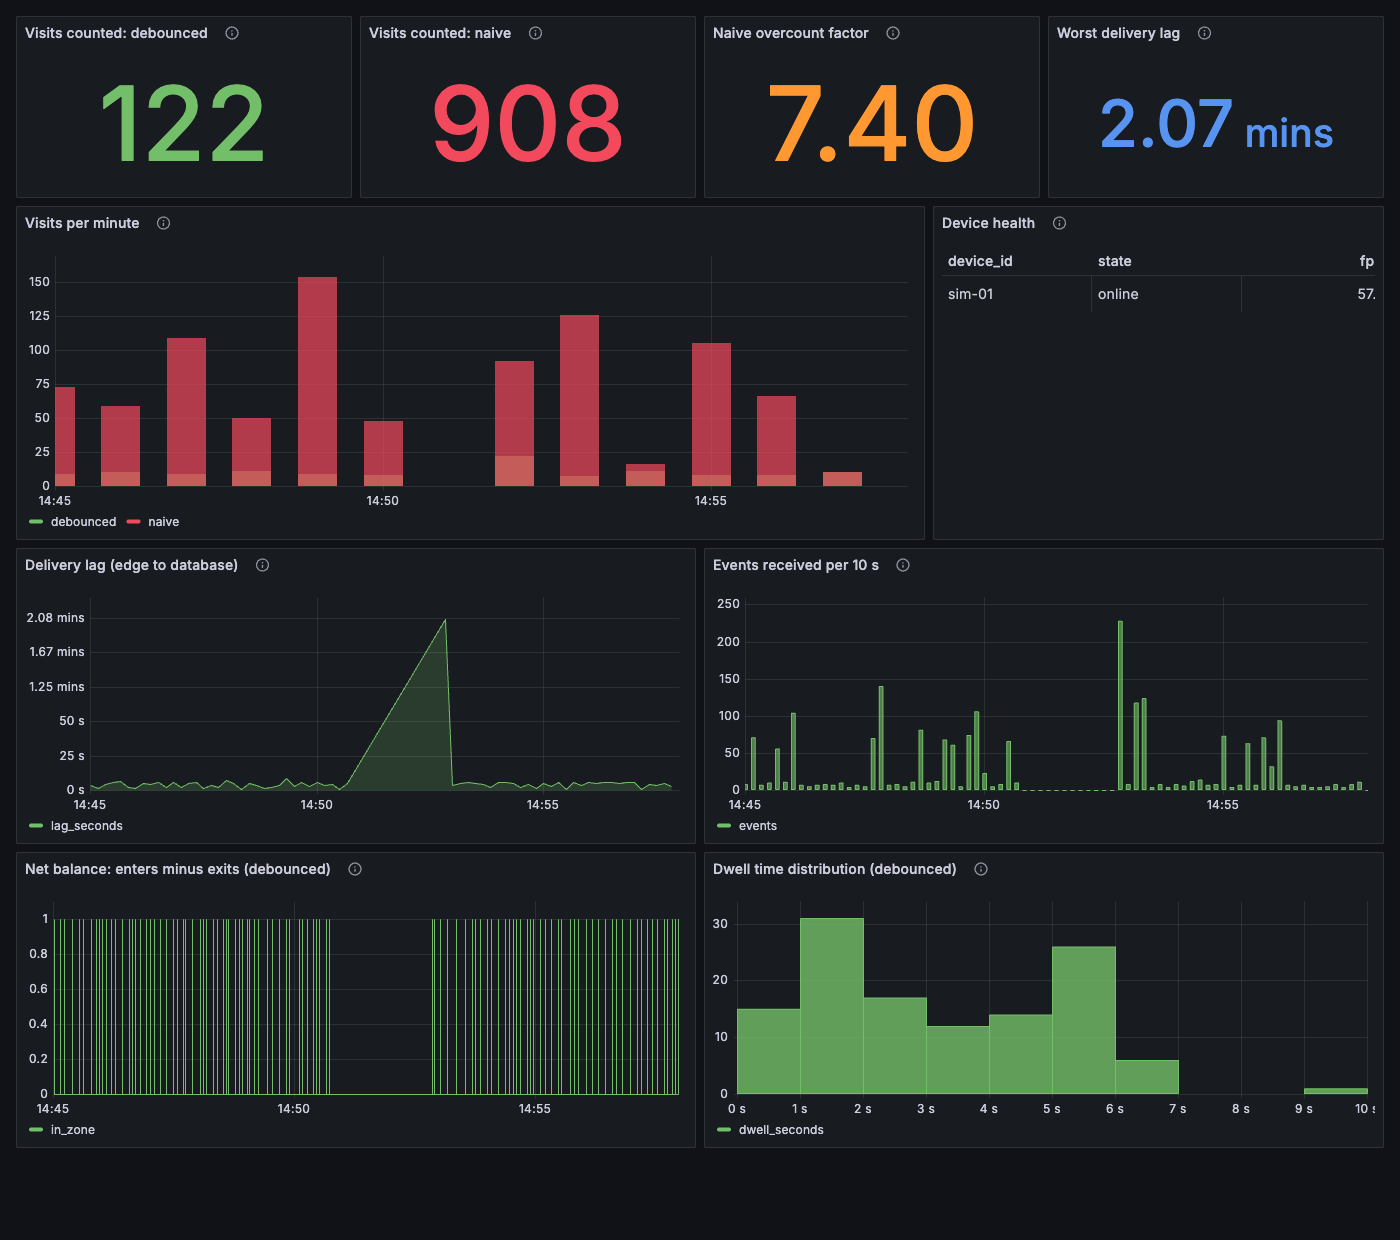
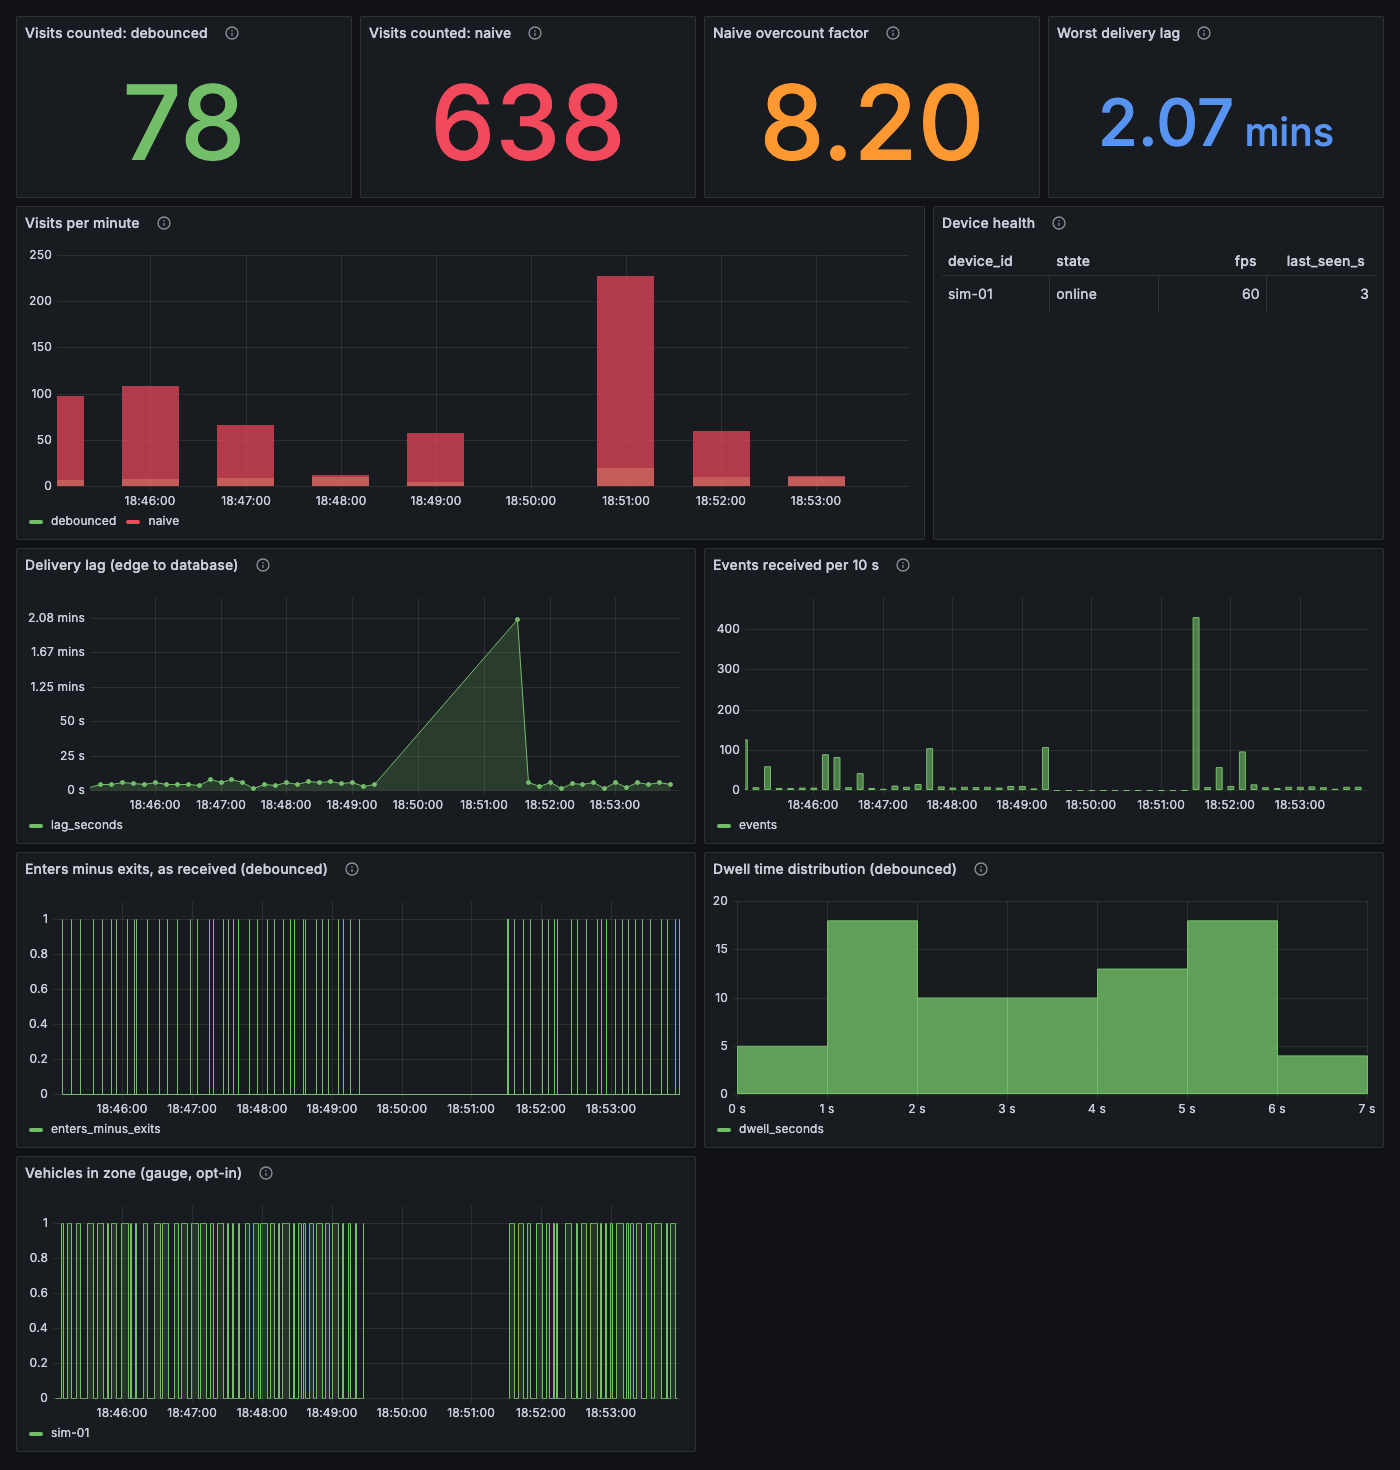
docs: recapture the Grafana screenshot with the gauge panel

diff --git a/README.md b/README.md
@@ -122,9 +122,12 @@ make broker-restart           # fresh lab, ~5 min: ingest away across a broker r
 # Grafana: events flatline, then a catch-up spike with high delivery lag
 ```
 
-<!-- Screenshot, not generated by make: `make up`, then chaos/scenarios.sh 64k, latency, outage 120 (reset between),
-     dashboard captured headless at 1400x1240 in kiosk mode over that window. Replace it by re-running the same sequence. -->
-![Grafana through a 2 minute outage: events flatline, then catch up with a delivery-lag spike](docs/screenshots/grafana-outage.png)
+<!-- Screenshot, not generated by make: a fresh lab with `OCCUPANCY_GAUGE_MS=500 make up` (the opt-in gauge on, so its
+     panel has data), then `make drill` (64 kbps, latency, 2 minute outage, drain); the dashboard captured with headless
+     Chrome at 1400x1470 in kiosk mode, about 12 s after load, with the time range in epoch ms from lab start to the
+     drill's end (/d/edge-cv-lab/edge-cv-lab?kiosk&from=<ms>&to=<ms>; Grafana ignores ISO dates there).
+     Replace it by re-running the same sequence. -->
+![Grafana through a 2 minute outage: events flatline, then catch up with a delivery-lag spike; the occupancy gauge has a gap where its QoS 0 samples were dropped](docs/screenshots/grafana-outage.png)
 
 ## Failure modes covered
 

diff --git a/HANDOVER.md b/HANDOVER.md
@@ -66,8 +66,7 @@ Not needed for the four case studies; kept in case a benchmark angle is wanted l
 ## Known rough edges
 - The edge and the sim publish each debounced enter together with its exit, so the event sum on the dashboard (now
   "Enters minus exits, as received") shows neither occupancy nor delivery: a visit lost whole leaves it flat.
-  Occupancy comes only from the opt-in gauge; `make delivery` checks delivery. `docs/screenshots/grafana-outage.png` predates the relabel and the gauge panel (old title, `in_zone` series);
-  recapture it with the steps in README's comment, and note the dashboard is now one row taller.
+  Occupancy comes only from the opt-in gauge; `make delivery` checks delivery.
 - The edge calls `counter.update()` only on frames with track boxes, so `expire()` waits for the next detected vehicle;
   on a quiet camera a lost visit stays open until then.
 - `bytetrack` (the replay tracker) is written against `BYTETracker(args)` in ultralytics 8.4.163, the edge image's version
